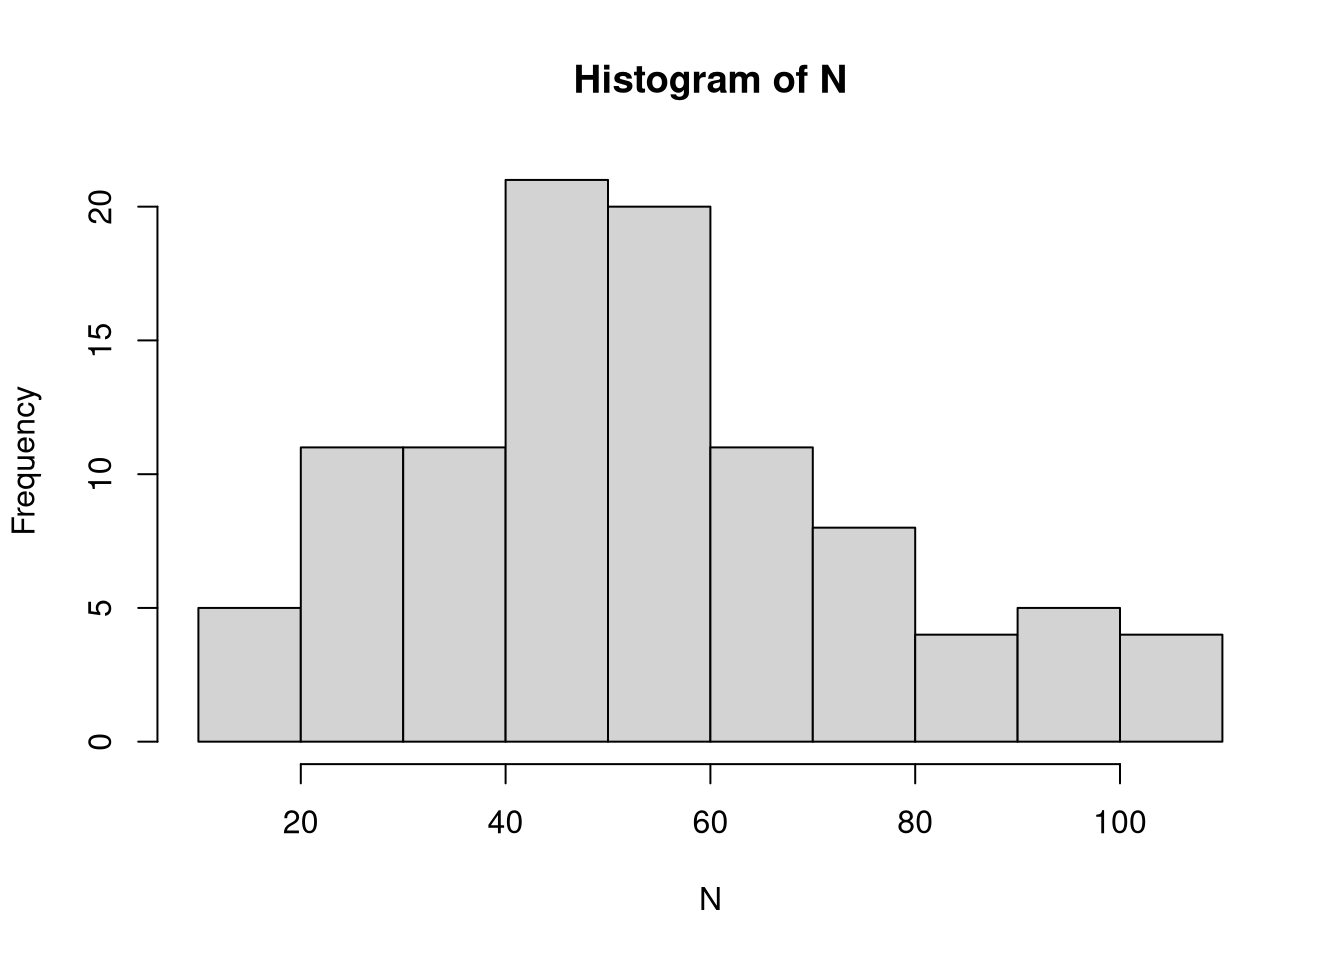
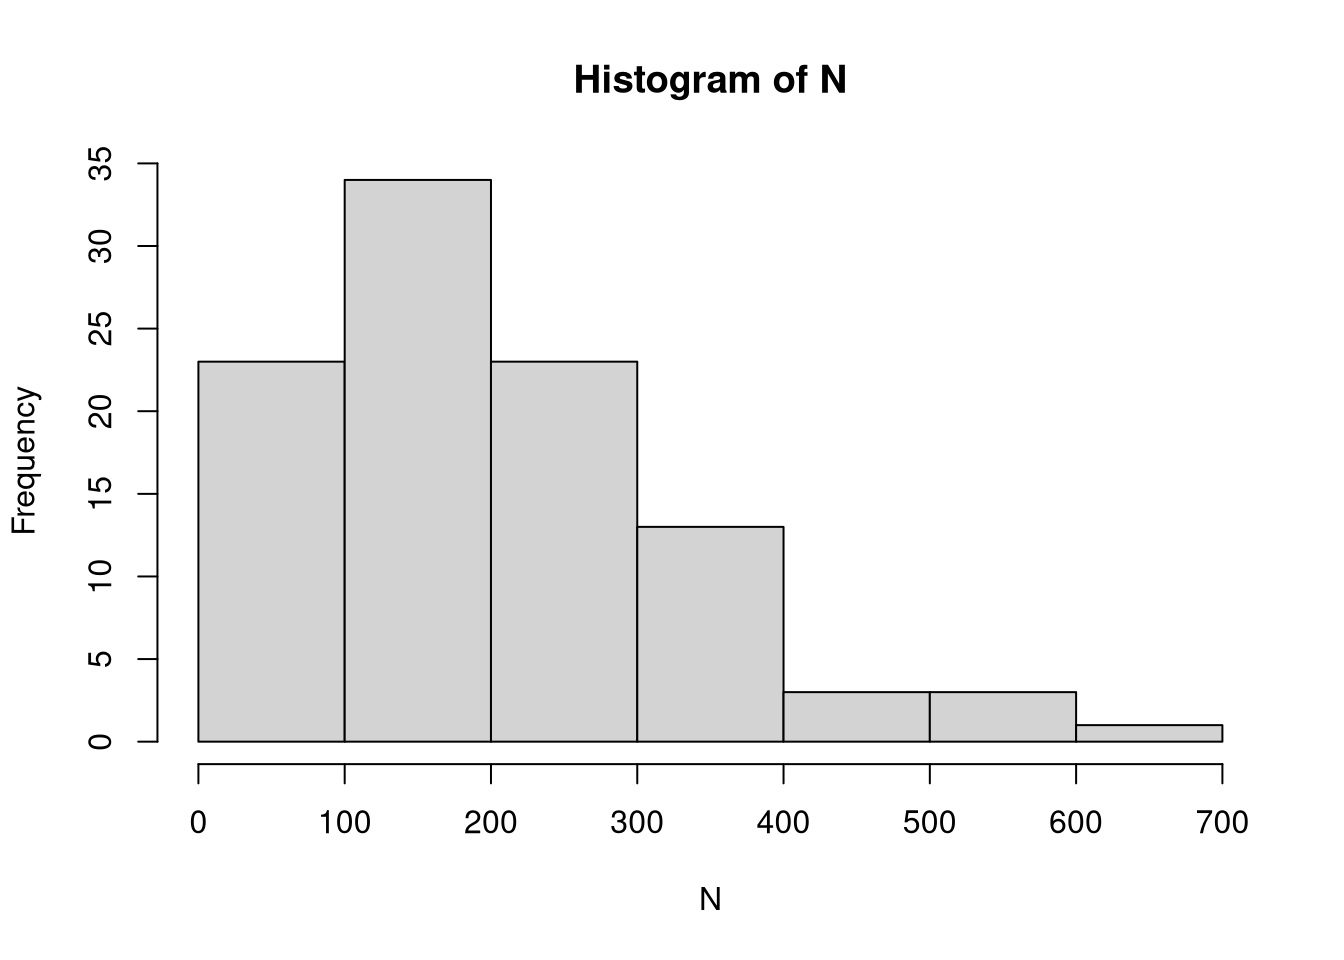
update

diff --git a/quarto/index.html b/quarto/index.html
@@ -7,9 +7,9 @@
 <meta name="viewport" content="width=device-width, initial-scale=1.0, user-scalable=yes">
 
 <meta name="author" content="Matěj Tvarůžka">
-<meta name="dcterms.date" content="2026-05-24">
+<meta name="dcterms.date" content="2026-05-26">
 
-<title>Bayesian Analysis of Syntopy in Sister Species Pairs</title>
+<title>Bayesian Analysis of Syntopy</title>
 <style>
 /* Default styles provided by pandoc.
 ** See https://pandoc.org/MANUAL.html#variables-for-html for config info.
@@ -115,7 +115,7 @@ window.Quarto = {
 
 <header id="title-block-header" class="quarto-title-block default">
 <div class="quarto-title">
-<h1 class="title">Bayesian Analysis of Syntopy in Sister Species Pairs</h1>
+<h1 class="title">Bayesian Analysis of Syntopy</h1>
 </div>
 
 
@@ -132,7 +132,7 @@ window.Quarto = {
     <div>
     <div class="quarto-title-meta-heading">Published</div>
     <div class="quarto-title-meta-contents">
-      <p class="date">May 24, 2026</p>
+      <p class="date">May 26, 2026</p>
     </div>
   </div>
   
@@ -146,9 +146,10 @@ window.Quarto = {
 
 <section id="introduction" class="level1">
 <h1>Introduction</h1>
-<p>Following the framework of Remeš &amp; Harmáčková (2023), this assignment simulates and analyzes local co-occurrence (syntopy) in bird sister species pairs. I model the co-occurrence probability at local sites as a function of ecological and spatial predictors.</p>
-<p>We can imagine the range overlap being the jar, from which we randomly draw co-occurence states. There are four possible outcomes of that drowing: 1) both species are present, 2) species A is present, 3) species B is present or 4) both species are missing at the site. To measure the affinity of species co-occurence we use log odds ratio as it makes the odds ratio centered around zero makes the final scale linear.</p>
-<p>If we want to model this problem using the Bayesian methods, than the most accurate probability distribution for this process is the Fisher’s non-central hypergeometric distribution, where <em>N</em> stands for the population size (number of sites within the sympatric zone), <em>K</em> is the number of co-occurrence states (<em>K</em> = 4), <em>n</em> is the number of draws and <em>k</em> stands for number of co-occurrences. This distribution is accurate, because the sampling is carried out without replacement which matches the true nature of the problem as we have a limited number of pairs, however I will compare the result with the binomial distribution as well.</p>
+<p>problem of double zeros!</p>
+<p>Following the framework of Remeš &amp; Harmáčková (2023), this assignment simulates and analyzes local co-occurrence (syntopy) in bird sister species pairs. I model the co-occurrence probability at local sites as a function of ecological and spatial predictors. This idea is connected to the topic of my master’s thesis, as I model syntopy on two spatial scale using BBS data and Bayesian framework.</p>
+<p>We can imagine the range overlap being the jar, from which we randomly draw co-occurence states. There are four possible outcomes of that drowing: 1) both species are present, 2) species A is present, 3) species B is present or 4) both species are missing at the site. To measure an affinity of species co-occurence we use log odds ratio as it makes the odds ratio centered around zero, which makes the final scale linear.</p>
+<p>If we want to model this problem using the Bayesian methods, than the most accurate probability distribution for this process is the <strong>Fisher’s non-central hypergeometric distribution</strong>, where <em>N</em> stands for the population size (number of sites within the sympatric zone), <em>K</em> is the number of co-occurrence states (<em>K</em> = 4), <em>n</em> is the number of draws and <em>k</em> stands for number of co-occurrences. This distribution is accurate, because the sampling is carried out without replacement (unlike binomial distribution) which matches the true nature of the problem as we have a limited number of pairs.</p>
 <div class="callout callout-style-default callout-note callout-titled">
 <div class="callout-header d-flex align-content-center">
 <div class="callout-icon-container">
@@ -160,7 +161,7 @@ window.Quarto = {
 </div>
 <div class="callout-body-container callout-body">
 <ol type="1">
-<li>Generate data for simulation for N=100 and N=500 for both Fisher’s hypergeometric and binomial distribution.</li>
+<li>Generate data for simulation for N=100 pairs for both Fisher’s hypergeometric and binomial distribution.</li>
 <li>Model co-occurrence using Fisher’s hypergeometric distribution</li>
 <li>Model co-occurrence using approximation with binomial distribution.</li>
 <li>Compare both models.</li>
@@ -174,15 +175,15 @@ window.Quarto = {
 <ul>
 <li><p><span class="math inline">\(\beta_{0} = 0.5\)</span> (Baseline log-odds of co-occurrence; slight facilitation)</p></li>
 <li><p><span class="math inline">\(\beta_{res.div} = -0.8\)</span> (Resource use divergence: greater divergence decreases syntopy)</p></li>
-<li><p><span class="math inline">\(\beta_{hab.pref} = 0.5\)</span> (Similar microhabitat and environmental preference increases syntopy)</p></li>
+<li><p><span class="math inline">\(\beta_{hab.pref} = 0.6\)</span> (Similar microhabitat and environmental preference increases syntopy)</p></li>
 <li><p><span class="math inline">\(\beta_{sympatry} = 1.2\)</span> (Spatial overlap: regional overlap strongly increases syntopy)</p></li>
-<li><p><span class="math inline">\(\beta_{prod} = 0.3\)</span> (Environmental productivity: richer environments support co-occurrence)</p></li>
+<li><p><span class="math inline">\(\beta_{prod} = 0.3\)</span> (Environmental productivity (e.g., NDVI): richer environments support co-occurrence)</p></li>
 </ul>
 <section id="fishers-hypergeometric-distribution" class="level2">
 <h2 class="anchored" data-anchor-id="fishers-hypergeometric-distribution">Fishers’ Hypergeometric Distribution</h2>
 <section id="mathematical-formulation" class="level3">
 <h3 class="anchored" data-anchor-id="mathematical-formulation">Mathematical Formulation</h3>
-<p>For each site <span class="math inline">\(i\)</span> out of <span class="math inline">\(N = 100\)</span>, the co-occurrence affinity (<span class="math inline">\(α\)</span>) is governed by the logarithmic function:</p>
+<p>For each site <span class="math inline">\(i\)</span> out of <span class="math inline">\(N = 100\)</span>, the co-occurrence affinity (<span class="math inline">\(α\)</span>) is the log-odds ratio of given parameters:</p>
 <p><span class="math display">\[\text{log}(ω_i) = \beta_{0} + \beta_{res.div} \cdot X_{1,i} + \beta_{hab.pref} \cdot X_{2,i} + \beta_{sympatry} \cdot X_{3,i} + \beta_{prod} \cdot X_{4,i}\]</span></p>
 <p>The observed co-occurrence <span class="math inline">\(k_i\)</span> is modeled with <strong>Fisher’s Hypergeometric distribution</strong> representing local survey plots within that site:</p>
 <p><span class="math display">\[k_i \sim \text{FisherHypergeometric}(m_{1i},m_{2i}, N_i, ω_i)\]</span></p>
@@ -197,16 +198,15 @@ window.Quarto = {
 </section>
 <section id="data-generation" class="level3">
 <h3 class="anchored" data-anchor-id="data-generation">Data Generation</h3>
+<p>For the Fisher’s hypergeometric distribution we can use the library <code>BiasedUrn</code></p>
+<p>For the number of sites I choose a gamma-Poisson distribution as it is an integer</p>
 <div class="cell">
-<div class="code-copy-outer-scaffold"><div class="sourceCode cell-code" id="cb1"><pre class="sourceCode r code-with-copy"><code class="sourceCode r"><span id="cb1-1"><a href="#cb1-1" aria-hidden="true" tabindex="-1"></a><span class="fu">library</span>(BiasedUrn)</span></code></pre></div><button title="Copy to Clipboard" class="code-copy-button"><i class="bi"></i></button></div>
-</div>
-<div class="cell">
-<div class="code-copy-outer-scaffold"><div class="sourceCode cell-code" id="cb2"><pre class="sourceCode r code-with-copy"><code class="sourceCode r"><span id="cb2-1"><a href="#cb2-1" aria-hidden="true" tabindex="-1"></a><span class="fu">set.seed</span>(<span class="dv">12</span>)</span>
-<span id="cb2-2"><a href="#cb2-2" aria-hidden="true" tabindex="-1"></a>num_pairs <span class="ot">&lt;-</span> <span class="dv">100</span></span>
-<span id="cb2-3"><a href="#cb2-3" aria-hidden="true" tabindex="-1"></a>N <span class="ot">&lt;-</span> <span class="fu">rpois</span>(num_pairs, <span class="at">lambda =</span> <span class="fu">rgamma</span>(<span class="at">n =</span> num_pairs, <span class="at">shape =</span> <span class="dv">5</span>, <span class="at">rate =</span> <span class="dv">1</span><span class="sc">/</span><span class="dv">10</span>)) <span class="sc">+</span> <span class="dv">5</span> <span class="co"># Added +5 to ensure no pairs have 0 or too few total routes</span></span>
-<span id="cb2-4"><a href="#cb2-4" aria-hidden="true" tabindex="-1"></a>m1 <span class="ot">&lt;-</span> <span class="fu">rbinom</span>(num_pairs, <span class="at">size =</span> N, <span class="at">prob =</span> <span class="fl">0.5</span>)</span>
-<span id="cb2-5"><a href="#cb2-5" aria-hidden="true" tabindex="-1"></a>m2 <span class="ot">&lt;-</span> <span class="fu">rbinom</span>(num_pairs, <span class="at">size =</span> N, <span class="at">prob =</span> <span class="fl">0.5</span>)</span>
-<span id="cb2-6"><a href="#cb2-6" aria-hidden="true" tabindex="-1"></a><span class="fu">hist</span>(N)</span></code></pre></div><button title="Copy to Clipboard" class="code-copy-button"><i class="bi"></i></button></div>
+<div class="code-copy-outer-scaffold"><div class="sourceCode cell-code" id="cb1"><pre class="sourceCode r code-with-copy"><code class="sourceCode r"><span id="cb1-1"><a href="#cb1-1" aria-hidden="true" tabindex="-1"></a><span class="fu">set.seed</span>(<span class="dv">12</span>)</span>
+<span id="cb1-2"><a href="#cb1-2" aria-hidden="true" tabindex="-1"></a>num_pairs <span class="ot">&lt;-</span> <span class="dv">100</span></span>
+<span id="cb1-3"><a href="#cb1-3" aria-hidden="true" tabindex="-1"></a>N <span class="ot">&lt;-</span> <span class="fu">rpois</span>(num_pairs, <span class="at">lambda =</span> <span class="fu">rgamma</span>(<span class="at">n =</span> num_pairs, <span class="at">shape =</span> <span class="dv">2</span>, <span class="at">rate =</span> <span class="dv">1</span><span class="sc">/</span><span class="dv">100</span>)) <span class="co"># gamma-Poisson distribution, N of sites</span></span>
+<span id="cb1-4"><a href="#cb1-4" aria-hidden="true" tabindex="-1"></a>m1 <span class="ot">&lt;-</span> <span class="fu">rbinom</span>(num_pairs, <span class="at">size =</span> N, <span class="at">prob =</span> <span class="fl">0.5</span>) <span class="co"># sites with species A</span></span>
+<span id="cb1-5"><a href="#cb1-5" aria-hidden="true" tabindex="-1"></a>m2 <span class="ot">&lt;-</span> <span class="fu">rbinom</span>(num_pairs, <span class="at">size =</span> N, <span class="at">prob =</span> <span class="fl">0.5</span>) <span class="co"># sites with species B</span></span>
+<span id="cb1-6"><a href="#cb1-6" aria-hidden="true" tabindex="-1"></a><span class="fu">hist</span>(N)</span></code></pre></div><button title="Copy to Clipboard" class="code-copy-button"><i class="bi"></i></button></div>
 <div class="cell-output-display">
 <div>
 <figure class="figure">
@@ -214,21 +214,33 @@ window.Quarto = {
 </figure>
 </div>
 </div>
+<div class="code-copy-outer-scaffold"><div class="sourceCode cell-code" id="cb2"><pre class="sourceCode r code-with-copy"><code class="sourceCode r"><span id="cb2-1"><a href="#cb2-1" aria-hidden="true" tabindex="-1"></a><span class="fu">summary</span>(m1)</span></code></pre></div><button title="Copy to Clipboard" class="code-copy-button"><i class="bi"></i></button></div>
+<div class="cell-output cell-output-stdout">
+<pre><code>   Min. 1st Qu.  Median    Mean 3rd Qu.    Max. 
+    4.0    55.0    86.0   101.5   140.0   336.0 </code></pre>
 </div>
+<div class="code-copy-outer-scaffold"><div class="sourceCode cell-code" id="cb4"><pre class="sourceCode r code-with-copy"><code class="sourceCode r"><span id="cb4-1"><a href="#cb4-1" aria-hidden="true" tabindex="-1"></a><span class="fu">summary</span>(m2)</span></code></pre></div><button title="Copy to Clipboard" class="code-copy-button"><i class="bi"></i></button></div>
+<div class="cell-output cell-output-stdout">
+<pre><code>   Min. 1st Qu.  Median    Mean 3rd Qu.    Max. 
+    3.0    52.0    91.5   100.7   137.2   325.0 </code></pre>
+</div>
+</div>
+<p>Some species pairs have very large number of sampled sites, while some of them have just a few sampled sites within the sympatric range. Min. 1st Qu. Median Mean 3rd Qu. Max. 6.0 103.8 172.0 201.1 274.8 658.0</p>
+<p>Let’s continue with the generation of parameter values. Note that we need to standardize all parameters before proceeding.</p>
 <div class="cell">
-<div class="code-copy-outer-scaffold"><div class="sourceCode cell-code" id="cb3"><pre class="sourceCode r code-with-copy"><code class="sourceCode r"><span id="cb3-1"><a href="#cb3-1" aria-hidden="true" tabindex="-1"></a><span class="fu">set.seed</span>(<span class="dv">12</span>)</span>
-<span id="cb3-2"><a href="#cb3-2" aria-hidden="true" tabindex="-1"></a>X_res_div   <span class="ot">&lt;-</span> <span class="fu">rnorm</span>(num_pairs, <span class="at">mean =</span> <span class="dv">0</span>, <span class="at">sd =</span> <span class="dv">1</span>) <span class="co"># X1</span></span>
-<span id="cb3-3"><a href="#cb3-3" aria-hidden="true" tabindex="-1"></a>X_hab_pref  <span class="ot">&lt;-</span> <span class="fu">rnorm</span>(num_pairs, <span class="at">mean =</span> <span class="dv">0</span>, <span class="at">sd =</span> <span class="dv">1</span>) <span class="co"># X2</span></span>
-<span id="cb3-4"><a href="#cb3-4" aria-hidden="true" tabindex="-1"></a></span>
-<span id="cb3-5"><a href="#cb3-5" aria-hidden="true" tabindex="-1"></a><span class="co"># Sympatry</span></span>
-<span id="cb3-6"><a href="#cb3-6" aria-hidden="true" tabindex="-1"></a>raw_beta <span class="ot">&lt;-</span> <span class="fu">rbeta</span>(num_pairs, <span class="at">shape1 =</span> <span class="dv">2</span>, <span class="at">shape2 =</span> <span class="dv">1</span>)</span>
-<span id="cb3-7"><a href="#cb3-7" aria-hidden="true" tabindex="-1"></a>target_min <span class="ot">&lt;-</span> <span class="dv">5</span></span>
-<span id="cb3-8"><a href="#cb3-8" aria-hidden="true" tabindex="-1"></a>target_max <span class="ot">&lt;-</span> <span class="dv">100</span></span>
-<span id="cb3-9"><a href="#cb3-9" aria-hidden="true" tabindex="-1"></a>sympatry <span class="ot">&lt;-</span> target_min <span class="sc">+</span> (raw_beta <span class="sc">-</span> <span class="fu">min</span>(raw_beta)) <span class="sc">*</span> (target_max <span class="sc">-</span> target_min) <span class="sc">/</span> (<span class="fu">max</span>(raw_beta) <span class="sc">-</span> <span class="fu">min</span>(raw_beta))</span>
-<span id="cb3-10"><a href="#cb3-10" aria-hidden="true" tabindex="-1"></a>X_sympatry <span class="ot">&lt;-</span> (sympatry <span class="sc">-</span> <span class="fu">mean</span>(sympatry)) <span class="sc">/</span> <span class="fu">sd</span>(sympatry) <span class="co"># X3</span></span>
-<span id="cb3-11"><a href="#cb3-11" aria-hidden="true" tabindex="-1"></a></span>
-<span id="cb3-12"><a href="#cb3-12" aria-hidden="true" tabindex="-1"></a><span class="co"># Check the distribution structure</span></span>
-<span id="cb3-13"><a href="#cb3-13" aria-hidden="true" tabindex="-1"></a><span class="fu">hist</span>(sympatry, <span class="at">breaks =</span> <span class="dv">12</span>, <span class="at">main=</span><span class="st">"Simulated Sympatry (%)"</span>, <span class="at">xlab=</span><span class="st">"Percentage Overlap"</span>, <span class="at">col=</span><span class="st">"darkseagreen3"</span>)</span></code></pre></div><button title="Copy to Clipboard" class="code-copy-button"><i class="bi"></i></button></div>
+<div class="code-copy-outer-scaffold"><div class="sourceCode cell-code" id="cb6"><pre class="sourceCode r code-with-copy"><code class="sourceCode r"><span id="cb6-1"><a href="#cb6-1" aria-hidden="true" tabindex="-1"></a><span class="fu">set.seed</span>(<span class="dv">12</span>)</span>
+<span id="cb6-2"><a href="#cb6-2" aria-hidden="true" tabindex="-1"></a>X_res_div   <span class="ot">&lt;-</span> <span class="fu">rnorm</span>(num_pairs, <span class="at">mean =</span> <span class="dv">0</span>, <span class="at">sd =</span> <span class="dv">1</span>) <span class="co"># X1</span></span>
+<span id="cb6-3"><a href="#cb6-3" aria-hidden="true" tabindex="-1"></a>X_hab_pref  <span class="ot">&lt;-</span> <span class="fu">rnorm</span>(num_pairs, <span class="at">mean =</span> <span class="dv">0</span>, <span class="at">sd =</span> <span class="dv">1</span>) <span class="co"># X2</span></span>
+<span id="cb6-4"><a href="#cb6-4" aria-hidden="true" tabindex="-1"></a></span>
+<span id="cb6-5"><a href="#cb6-5" aria-hidden="true" tabindex="-1"></a><span class="co"># Sympatry</span></span>
+<span id="cb6-6"><a href="#cb6-6" aria-hidden="true" tabindex="-1"></a>raw_beta <span class="ot">&lt;-</span> <span class="fu">rbeta</span>(num_pairs, <span class="at">shape1 =</span> <span class="dv">2</span>, <span class="at">shape2 =</span> <span class="dv">1</span>)</span>
+<span id="cb6-7"><a href="#cb6-7" aria-hidden="true" tabindex="-1"></a>target_min <span class="ot">&lt;-</span> <span class="dv">5</span> <span class="co"># sympatry treshold is 5 %</span></span>
+<span id="cb6-8"><a href="#cb6-8" aria-hidden="true" tabindex="-1"></a>target_max <span class="ot">&lt;-</span> <span class="dv">100</span> <span class="co"># full overlap</span></span>
+<span id="cb6-9"><a href="#cb6-9" aria-hidden="true" tabindex="-1"></a>sympatry <span class="ot">&lt;-</span> target_min <span class="sc">+</span> (raw_beta <span class="sc">-</span> <span class="fu">min</span>(raw_beta)) <span class="sc">*</span> (target_max <span class="sc">-</span> target_min) <span class="sc">/</span> (<span class="fu">max</span>(raw_beta) <span class="sc">-</span> <span class="fu">min</span>(raw_beta)) <span class="co"># z-score of sympatry</span></span>
+<span id="cb6-10"><a href="#cb6-10" aria-hidden="true" tabindex="-1"></a>X_sympatry <span class="ot">&lt;-</span> (sympatry <span class="sc">-</span> <span class="fu">mean</span>(sympatry)) <span class="sc">/</span> <span class="fu">sd</span>(sympatry) <span class="co"># X3</span></span>
+<span id="cb6-11"><a href="#cb6-11" aria-hidden="true" tabindex="-1"></a></span>
+<span id="cb6-12"><a href="#cb6-12" aria-hidden="true" tabindex="-1"></a><span class="co"># Check the distribution structure</span></span>
+<span id="cb6-13"><a href="#cb6-13" aria-hidden="true" tabindex="-1"></a><span class="fu">hist</span>(sympatry, <span class="at">breaks =</span> <span class="dv">12</span>, <span class="at">main=</span><span class="st">"Simulated Sympatry (%)"</span>, <span class="at">xlab=</span><span class="st">"Percentage Overlap"</span>, <span class="at">col=</span><span class="st">"darkseagreen3"</span>)</span></code></pre></div><button title="Copy to Clipboard" class="code-copy-button"><i class="bi"></i></button></div>
 <div class="cell-output-display">
 <div>
 <figure class="figure">
@@ -236,7 +248,7 @@ window.Quarto = {
 </figure>
 </div>
 </div>
-<div class="code-copy-outer-scaffold"><div class="sourceCode cell-code" id="cb4"><pre class="sourceCode r code-with-copy"><code class="sourceCode r"><span id="cb4-1"><a href="#cb4-1" aria-hidden="true" tabindex="-1"></a><span class="fu">hist</span>(X_sympatry, <span class="at">breaks =</span> <span class="dv">12</span>, <span class="at">main=</span><span class="st">"zSympatry (Standardized)"</span>, <span class="at">xlab=</span><span class="st">"Z-score"</span>, <span class="at">col=</span><span class="st">"steelblue"</span>)</span></code></pre></div><button title="Copy to Clipboard" class="code-copy-button"><i class="bi"></i></button></div>
+<div class="code-copy-outer-scaffold"><div class="sourceCode cell-code" id="cb7"><pre class="sourceCode r code-with-copy"><code class="sourceCode r"><span id="cb7-1"><a href="#cb7-1" aria-hidden="true" tabindex="-1"></a><span class="fu">hist</span>(X_sympatry, <span class="at">breaks =</span> <span class="dv">12</span>, <span class="at">main=</span><span class="st">"zSympatry (Standardized)"</span>, <span class="at">xlab=</span><span class="st">"Z-score"</span>, <span class="at">col=</span><span class="st">"steelblue"</span>)</span></code></pre></div><button title="Copy to Clipboard" class="code-copy-button"><i class="bi"></i></button></div>
 <div class="cell-output-display">
 <div>
 <figure class="figure">
@@ -244,89 +256,77 @@ window.Quarto = {
 </figure>
 </div>
 </div>
-<div class="code-copy-outer-scaffold"><div class="sourceCode cell-code" id="cb5"><pre class="sourceCode r code-with-copy"><code class="sourceCode r"><span id="cb5-1"><a href="#cb5-1" aria-hidden="true" tabindex="-1"></a><span class="fu">summary</span>(sympatry)</span></code></pre></div><button title="Copy to Clipboard" class="code-copy-button"><i class="bi"></i></button></div>
+<div class="code-copy-outer-scaffold"><div class="sourceCode cell-code" id="cb8"><pre class="sourceCode r code-with-copy"><code class="sourceCode r"><span id="cb8-1"><a href="#cb8-1" aria-hidden="true" tabindex="-1"></a>X_prod      <span class="ot">&lt;-</span> <span class="fu">rnorm</span>(num_pairs, <span class="at">mean =</span> <span class="dv">0</span>, <span class="at">sd =</span> <span class="dv">1</span>) <span class="co"># X4</span></span></code></pre></div><button title="Copy to Clipboard" class="code-copy-button"><i class="bi"></i></button></div>
+</div>
+<p>Now we set the “true” values for the parameters in our ideal universe.</p>
+<div class="cell">
+<div class="code-copy-outer-scaffold"><div class="sourceCode cell-code" id="cb9"><pre class="sourceCode r code-with-copy"><code class="sourceCode r"><span id="cb9-1"><a href="#cb9-1" aria-hidden="true" tabindex="-1"></a>beta_0        <span class="ot">&lt;-</span> <span class="fl">0.5</span></span>
+<span id="cb9-2"><a href="#cb9-2" aria-hidden="true" tabindex="-1"></a>beta_res_div  <span class="ot">&lt;-</span> <span class="sc">-</span><span class="fl">0.8</span></span>
+<span id="cb9-3"><a href="#cb9-3" aria-hidden="true" tabindex="-1"></a>beta_hab_pref <span class="ot">&lt;-</span> <span class="fl">0.6</span></span>
+<span id="cb9-4"><a href="#cb9-4" aria-hidden="true" tabindex="-1"></a>beta_sympatry <span class="ot">&lt;-</span> <span class="fl">1.2</span></span>
+<span id="cb9-5"><a href="#cb9-5" aria-hidden="true" tabindex="-1"></a>beta_prod     <span class="ot">&lt;-</span> <span class="fl">0.3</span></span></code></pre></div><button title="Copy to Clipboard" class="code-copy-button"><i class="bi"></i></button></div>
+</div>
+<p>Next step is the calculation of linear combination of parameters and we exponentiate the log-odds to get simple odds ratio.</p>
+<div class="cell">
+<div class="code-copy-outer-scaffold"><div class="sourceCode cell-code" id="cb10"><pre class="sourceCode r code-with-copy"><code class="sourceCode r"><span id="cb10-1"><a href="#cb10-1" aria-hidden="true" tabindex="-1"></a>log_omega <span class="ot">&lt;-</span> beta_0 <span class="sc">+</span> </span>
+<span id="cb10-2"><a href="#cb10-2" aria-hidden="true" tabindex="-1"></a>             beta_res_div  <span class="sc">*</span> X_res_div <span class="sc">+</span> </span>
+<span id="cb10-3"><a href="#cb10-3" aria-hidden="true" tabindex="-1"></a>             beta_hab_pref <span class="sc">*</span> X_hab_pref <span class="sc">+</span> </span>
+<span id="cb10-4"><a href="#cb10-4" aria-hidden="true" tabindex="-1"></a>             beta_sympatry <span class="sc">*</span> X_sympatry <span class="sc">+</span> </span>
+<span id="cb10-5"><a href="#cb10-5" aria-hidden="true" tabindex="-1"></a>             beta_prod     <span class="sc">*</span> X_prod</span>
+<span id="cb10-6"><a href="#cb10-6" aria-hidden="true" tabindex="-1"></a>omega <span class="ot">&lt;-</span> <span class="fu">exp</span>(log_omega)</span></code></pre></div><button title="Copy to Clipboard" class="code-copy-button"><i class="bi"></i></button></div>
+</div>
+<p>With this settedup, we calculate the linear predictor (alpha) for each pair.</p>
+<div class="cell">
+<div class="code-copy-outer-scaffold"><div class="sourceCode cell-code" id="cb11"><pre class="sourceCode r code-with-copy"><code class="sourceCode r"><span id="cb11-1"><a href="#cb11-1" aria-hidden="true" tabindex="-1"></a>k <span class="ot">&lt;-</span> <span class="fu">integer</span>(num_pairs)</span>
+<span id="cb11-2"><a href="#cb11-2" aria-hidden="true" tabindex="-1"></a><span class="cf">for</span>(i <span class="cf">in</span> <span class="dv">1</span><span class="sc">:</span>num_pairs) {</span>
+<span id="cb11-3"><a href="#cb11-3" aria-hidden="true" tabindex="-1"></a>  <span class="co"># Simple safety boundary: if a species isn't present at all, co-occurrence is 0</span></span>
+<span id="cb11-4"><a href="#cb11-4" aria-hidden="true" tabindex="-1"></a>  <span class="cf">if</span>(m1[i] <span class="sc">==</span> <span class="dv">0</span> <span class="sc">||</span> m2[i] <span class="sc">==</span> <span class="dv">0</span>) {</span>
+<span id="cb11-5"><a href="#cb11-5" aria-hidden="true" tabindex="-1"></a>    k[i] <span class="ot">&lt;-</span> <span class="dv">0</span></span>
+<span id="cb11-6"><a href="#cb11-6" aria-hidden="true" tabindex="-1"></a>  } <span class="cf">else</span> {</span>
+<span id="cb11-7"><a href="#cb11-7" aria-hidden="true" tabindex="-1"></a>    <span class="co"># rFNCHypergeo(n_samples, m1, m2, total_draws, odds)</span></span>
+<span id="cb11-8"><a href="#cb11-8" aria-hidden="true" tabindex="-1"></a>    <span class="co"># Note: BiasedUrn expects: m1 = white balls, m2 = black balls, n = balls drawn</span></span>
+<span id="cb11-9"><a href="#cb11-9" aria-hidden="true" tabindex="-1"></a>    k[i] <span class="ot">&lt;-</span> <span class="fu">rFNCHypergeo</span>(<span class="dv">1</span>, m1[i], N[i] <span class="sc">-</span> m1[i], m2[i], omega[i])</span>
+<span id="cb11-10"><a href="#cb11-10" aria-hidden="true" tabindex="-1"></a>  }</span>
+<span id="cb11-11"><a href="#cb11-11" aria-hidden="true" tabindex="-1"></a>}</span></code></pre></div><button title="Copy to Clipboard" class="code-copy-button"><i class="bi"></i></button></div>
+</div>
+<div class="cell">
+<div class="code-copy-outer-scaffold"><div class="sourceCode cell-code" id="cb12"><pre class="sourceCode r code-with-copy"><code class="sourceCode r"><span id="cb12-1"><a href="#cb12-1" aria-hidden="true" tabindex="-1"></a>sim_data_fischer <span class="ot">&lt;-</span> <span class="fu">data.frame</span>(</span>
+<span id="cb12-2"><a href="#cb12-2" aria-hidden="true" tabindex="-1"></a>  <span class="at">N =</span> N, <span class="at">m1 =</span> m1, <span class="at">m2 =</span> m2, <span class="at">k =</span> k,</span>
+<span id="cb12-3"><a href="#cb12-3" aria-hidden="true" tabindex="-1"></a>  <span class="at">res_div =</span> X_res_div, <span class="at">hab_pref =</span> X_hab_pref, </span>
+<span id="cb12-4"><a href="#cb12-4" aria-hidden="true" tabindex="-1"></a>  <span class="at">sympatry =</span> X_sympatry, <span class="at">prod =</span> X_prod</span>
+<span id="cb12-5"><a href="#cb12-5" aria-hidden="true" tabindex="-1"></a>)</span>
+<span id="cb12-6"><a href="#cb12-6" aria-hidden="true" tabindex="-1"></a></span>
+<span id="cb12-7"><a href="#cb12-7" aria-hidden="true" tabindex="-1"></a><span class="fu">head</span>(sim_data_fischer)</span></code></pre></div><button title="Copy to Clipboard" class="code-copy-button"><i class="bi"></i></button></div>
 <div class="cell-output cell-output-stdout">
-<pre><code>   Min. 1st Qu.  Median    Mean 3rd Qu.    Max. 
-   5.00   50.17   68.22   65.10   85.92  100.00 </code></pre>
-</div>
-<div class="code-copy-outer-scaffold"><div class="sourceCode cell-code" id="cb7"><pre class="sourceCode r code-with-copy"><code class="sourceCode r"><span id="cb7-1"><a href="#cb7-1" aria-hidden="true" tabindex="-1"></a>X_prod      <span class="ot">&lt;-</span> <span class="fu">rnorm</span>(num_pairs, <span class="at">mean =</span> <span class="dv">0</span>, <span class="at">sd =</span> <span class="dv">1</span>) <span class="co"># X4</span></span></code></pre></div><button title="Copy to Clipboard" class="code-copy-button"><i class="bi"></i></button></div>
-</div>
-<div class="cell">
-<div class="code-copy-outer-scaffold"><div class="sourceCode cell-code" id="cb8"><pre class="sourceCode r code-with-copy"><code class="sourceCode r"><span id="cb8-1"><a href="#cb8-1" aria-hidden="true" tabindex="-1"></a>beta_0        <span class="ot">&lt;-</span> <span class="fl">0.5</span></span>
-<span id="cb8-2"><a href="#cb8-2" aria-hidden="true" tabindex="-1"></a>beta_res_div  <span class="ot">&lt;-</span> <span class="sc">-</span><span class="fl">0.8</span></span>
-<span id="cb8-3"><a href="#cb8-3" aria-hidden="true" tabindex="-1"></a>beta_hab_pref <span class="ot">&lt;-</span> <span class="fl">0.5</span></span>
-<span id="cb8-4"><a href="#cb8-4" aria-hidden="true" tabindex="-1"></a>beta_sympatry <span class="ot">&lt;-</span> <span class="fl">1.2</span></span>
-<span id="cb8-5"><a href="#cb8-5" aria-hidden="true" tabindex="-1"></a>beta_prod     <span class="ot">&lt;-</span> <span class="fl">0.3</span></span></code></pre></div><button title="Copy to Clipboard" class="code-copy-button"><i class="bi"></i></button></div>
-</div>
-<div class="cell">
-<div class="code-copy-outer-scaffold"><div class="sourceCode cell-code" id="cb9"><pre class="sourceCode r code-with-copy"><code class="sourceCode r"><span id="cb9-1"><a href="#cb9-1" aria-hidden="true" tabindex="-1"></a>log_omega <span class="ot">&lt;-</span> beta_0 <span class="sc">+</span> </span>
-<span id="cb9-2"><a href="#cb9-2" aria-hidden="true" tabindex="-1"></a>             beta_res_div  <span class="sc">*</span> X_res_div <span class="sc">+</span> </span>
-<span id="cb9-3"><a href="#cb9-3" aria-hidden="true" tabindex="-1"></a>             beta_hab_pref <span class="sc">*</span> X_hab_pref <span class="sc">+</span> </span>
-<span id="cb9-4"><a href="#cb9-4" aria-hidden="true" tabindex="-1"></a>             beta_sympatry <span class="sc">*</span> X_sympatry <span class="sc">+</span> </span>
-<span id="cb9-5"><a href="#cb9-5" aria-hidden="true" tabindex="-1"></a>             beta_prod     <span class="sc">*</span> X_prod</span>
-<span id="cb9-6"><a href="#cb9-6" aria-hidden="true" tabindex="-1"></a>omega <span class="ot">&lt;-</span> <span class="fu">exp</span>(log_omega)</span></code></pre></div><button title="Copy to Clipboard" class="code-copy-button"><i class="bi"></i></button></div>
-</div>
-<div class="cell">
-<div class="code-copy-outer-scaffold"><div class="sourceCode cell-code" id="cb10"><pre class="sourceCode r code-with-copy"><code class="sourceCode r"><span id="cb10-1"><a href="#cb10-1" aria-hidden="true" tabindex="-1"></a><span class="co"># Calculate the linear predictor (alpha) for each pair</span></span>
-<span id="cb10-2"><a href="#cb10-2" aria-hidden="true" tabindex="-1"></a>k <span class="ot">&lt;-</span> <span class="fu">integer</span>(num_pairs)</span>
-<span id="cb10-3"><a href="#cb10-3" aria-hidden="true" tabindex="-1"></a><span class="cf">for</span>(i <span class="cf">in</span> <span class="dv">1</span><span class="sc">:</span>num_pairs) {</span>
-<span id="cb10-4"><a href="#cb10-4" aria-hidden="true" tabindex="-1"></a>  <span class="co"># Simple safety boundary: if a species isn't present at all, co-occurrence is 0</span></span>
-<span id="cb10-5"><a href="#cb10-5" aria-hidden="true" tabindex="-1"></a>  <span class="cf">if</span>(m1[i] <span class="sc">==</span> <span class="dv">0</span> <span class="sc">||</span> m2[i] <span class="sc">==</span> <span class="dv">0</span>) {</span>
-<span id="cb10-6"><a href="#cb10-6" aria-hidden="true" tabindex="-1"></a>    k[i] <span class="ot">&lt;-</span> <span class="dv">0</span></span>
-<span id="cb10-7"><a href="#cb10-7" aria-hidden="true" tabindex="-1"></a>  } <span class="cf">else</span> {</span>
-<span id="cb10-8"><a href="#cb10-8" aria-hidden="true" tabindex="-1"></a>    <span class="co"># rFNCHypergeo(n_samples, m1, m2, total_draws, odds)</span></span>
-<span id="cb10-9"><a href="#cb10-9" aria-hidden="true" tabindex="-1"></a>    <span class="co"># Note: BiasedUrn expects: m1 = white balls, m2 = black balls, n = balls drawn</span></span>
-<span id="cb10-10"><a href="#cb10-10" aria-hidden="true" tabindex="-1"></a>    k[i] <span class="ot">&lt;-</span> <span class="fu">rFNCHypergeo</span>(<span class="dv">1</span>, m1[i], N[i] <span class="sc">-</span> m1[i], m2[i], omega[i])</span>
-<span id="cb10-11"><a href="#cb10-11" aria-hidden="true" tabindex="-1"></a>  }</span>
-<span id="cb10-12"><a href="#cb10-12" aria-hidden="true" tabindex="-1"></a>}</span></code></pre></div><button title="Copy to Clipboard" class="code-copy-button"><i class="bi"></i></button></div>
-</div>
-<div class="cell">
-<div class="code-copy-outer-scaffold"><div class="sourceCode cell-code" id="cb11"><pre class="sourceCode r code-with-copy"><code class="sourceCode r"><span id="cb11-1"><a href="#cb11-1" aria-hidden="true" tabindex="-1"></a>sim_data_100 <span class="ot">&lt;-</span> <span class="fu">data.frame</span>(</span>
-<span id="cb11-2"><a href="#cb11-2" aria-hidden="true" tabindex="-1"></a>  <span class="at">N =</span> N, <span class="at">m1 =</span> m1, <span class="at">m2 =</span> m2, <span class="at">k =</span> k,</span>
-<span id="cb11-3"><a href="#cb11-3" aria-hidden="true" tabindex="-1"></a>  <span class="at">res_div =</span> X_res_div, <span class="at">hab_pref =</span> X_hab_pref, </span>
-<span id="cb11-4"><a href="#cb11-4" aria-hidden="true" tabindex="-1"></a>  <span class="at">sympatry =</span> X_sympatry, <span class="at">prod =</span> X_prod</span>
-<span id="cb11-5"><a href="#cb11-5" aria-hidden="true" tabindex="-1"></a>)</span>
-<span id="cb11-6"><a href="#cb11-6" aria-hidden="true" tabindex="-1"></a></span>
-<span id="cb11-7"><a href="#cb11-7" aria-hidden="true" tabindex="-1"></a><span class="fu">head</span>(sim_data_100)</span></code></pre></div><button title="Copy to Clipboard" class="code-copy-button"><i class="bi"></i></button></div>
-<div class="cell-output cell-output-stdout">
-<pre><code>   N m1 m2  k    res_div    hab_pref   sympatry       prod
-1 18 12  6  5 -1.4805676  1.92671883 -0.1302291 -0.7896609
-2 39 18 24 11  1.5771695  0.05143036  1.2109266 -2.0028304
-3 68 37 30 14 -0.9567445  1.80052376 -2.2998301  0.5922348
-4 51 22 25  5 -0.9200052 -0.55145776 -1.7199266 -0.4093031
-5 53 27 21 17 -1.9976421  0.10705889  0.3103887 -1.4592661
-6 22 12 13 10 -0.2722960  0.78912404  0.9764830  0.1501300</code></pre>
+<pre><code>    N  m1  m2  k    res_div    hab_pref   sympatry       prod
+1  22  15  11  9 -1.4805676  1.92671883 -0.1302291 -0.7896609
+2  79  42  39 22  1.5771695  0.05143036  1.2109266 -2.0028304
[phone redacted] -0.9567445  1.80052376 -2.2998301  0.5922348
+4 118  62  62 24 -0.9200052 -0.55145776 -1.7199266 -0.4093031
+5 122  56  66 45 -1.9976421  0.10705889  0.3103887 -1.4592661
+6  42  17  14  9 -0.2722960  0.78912404  0.9764830  0.1501300</code></pre>
 </div>
 </div>
-<hr>
-</section>
-</section>
-<section id="binomial-distribution" class="level2">
-<h2 class="anchored" data-anchor-id="binomial-distribution">Binomial Distribution</h2>
-<section id="mathematical-formulation-1" class="level3">
-<h3 class="anchored" data-anchor-id="mathematical-formulation-1">Mathematical Formulation</h3>
-<p>For each site <span class="math inline">\(i\)</span> out of <span class="math inline">\(N = 100\)</span>, the probability of co-occurrence <span class="math inline">\(p_i\)</span> is governed by the logit link function:</p>
-<p><span class="math display">\[\text{logit}(p_i) = \beta_{0} + \beta_{res.div} \cdot X_{1,i} + \beta_{hab.pref} \cdot X_{2,i} + \beta_{sympatry} \cdot X_{3,i} + \beta_{prod} \cdot X_{4,i}\]</span></p>
-<p>The observed co-occurrence <span class="math inline">\(Y_i\)</span> is modeled as a Binomial process representing local survey plots within that site:</p>
-<p><span class="math display">\[Y_i \sim \text{Binomial}(M_i, p_i)\]</span></p>
-<p>where <span class="math inline">\(M_i\)</span> is the number of sampling efforts at site <span class="math inline">\(i\)</span>.</p>
-</section>
-<section id="data-generation-1" class="level3">
-<h3 class="anchored" data-anchor-id="data-generation-1">Data Generation</h3>
 <hr>
 </section>
 </section>
 </section>
 <section id="modeling" class="level1">
 <h1>Modeling</h1>
-<p><span class="math display">\[\begin{aligned}
-K_{ij} &amp;\sim \text{fnchypg}(\vec{m}_i, N - \vec{m}_i, \vec{m}_j, e^\alpha) \\
-\alpha &amp;= \beta_0 + \lambda_i + \lambda_j + \beta X \\
-\beta_k &amp;\sim \text{N}(0, 1) \\
-\beta_0 &amp;\sim \text{N}(0, 4) \\
-\lambda_i &amp;\sim \text{N}(0, 1)
-\end{aligned}\]</span><br>
-</p>
+<div class="cell">
+<div class="code-copy-outer-scaffold"><div class="sourceCode cell-code" id="cb14"><pre class="sourceCode r code-with-copy"><code class="sourceCode r"><span id="cb14-1"><a href="#cb14-1" aria-hidden="true" tabindex="-1"></a><span class="fu">precis</span>(m_fisher_rethinking)</span></code></pre></div><button title="Copy to Clipboard" class="code-copy-button"><i class="bi"></i></button></div>
+<div class="cell-output cell-output-stdout">
+<pre><code>             mean         sd       5.5%      94.5%     rhat ess_bulk
+b0      0.5317016 0.03056005  0.4816850  0.5799227 1.000162 5303.058
+b_res  -0.7607146 0.03619956 -0.8181888 -0.7039827 1.000847 5873.876
+b_hab   0.6043155 0.02987302  0.5564180  0.6536638 1.001182 4780.211
+b_sym   1.1920371 0.03251377  1.1405650  1.2445739 1.000800 5716.400
+b_prod  0.2420632 0.03110117  0.1926518  0.2920215 0.999909 5588.078</code></pre>
+</div>
+</div>
+</section>
+<section id="conclusion" class="level1">
+<h1>Conclusion</h1>
 </section>
 
 </main>

diff --git a/quarto/inspiration.html b/quarto/inspiration.html
@@ -7,7 +7,7 @@
 <meta name="viewport" content="width=device-width, initial-scale=1.0, user-scalable=yes">
 
 <meta name="author" content="Matěj Tvarůžka">
-<meta name="dcterms.date" content="2026-05-23">
+<meta name="dcterms.date" content="2026-05-25">
 
 <title>Bayesian Analysis of Syntopy in Sister Species Pairs</title>
 <style>
@@ -132,7 +132,7 @@ window.Quarto = {
     <div>
     <div class="quarto-title-meta-heading">Published</div>
     <div class="quarto-title-meta-contents">
-      <p class="date">May 23, 2026</p>
+      <p class="date">May 25, 2026</p>
     </div>
   </div>
   